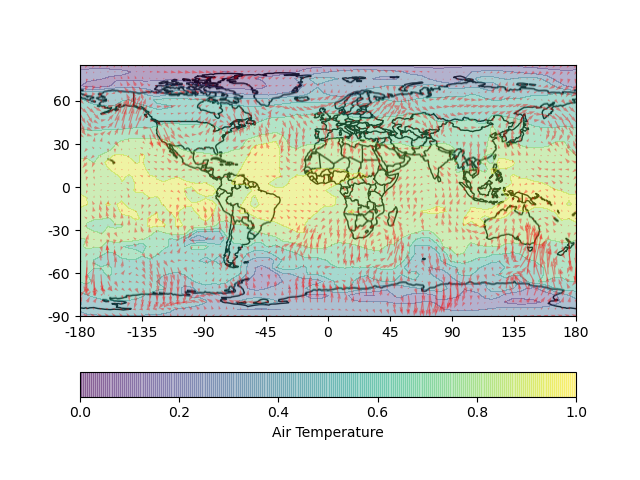
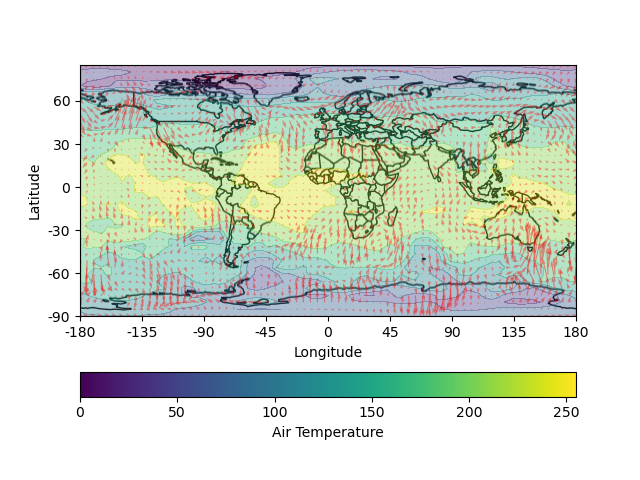
Fixed colorbar bug w/new samples generated

Changed region(s): [[0.0938, 0.7188, 0.9375, 0.875], [0.0312, 0.3438, 0.0625, 0.4688]]

diff --git a/makePlots.py b/makePlots.py
@@ -25,21 +25,20 @@ def make_daily_plots():
 		restructuredDay = day.reshape(3,3,37,72)
 		levelTitleCount = 0
 		for level in restructuredDay:
-			airT, uwnd, vwnd = level[0], level[1], level[3]
+			airT, uwnd, vwnd = level[0], level[1], level[2]
+			print(airT.max())
 			fig = plt.figure()
 			ax = plt.axes()
-			ax.imshow(im,extent=[0,71,0,180/5])
+			plt.imshow(im,extent=[0,71,0,180/5])
 			plt.xlabel("Longitude")
 			plt.ylabel("Latitude")
 			plt.xticks(x,xLabels)
 			plt.yticks(y,yLabels)
-			plt.contourf(airT,alpha=0.4)
+			ax.contourf(airT,alpha=0.4)
+			plt.colorbar(ax=ax, label="Air Temperature", orientation="horizontal")
 			plt.quiver(uwnd,vwnd,color='red',alpha=0.4)
-			plt.colorbar(label="Air Temperature", orientation="horizontal")
 			plt.savefig('finalOutput_plots/dailyProfiles/day' + str(dayTitleCount) + titles[levelTitleCount])
 			plt.clf()
 			levelTitleCount += 1
 		dayTitleCount += 1
 	return 0
-
-make_daily_plots()
